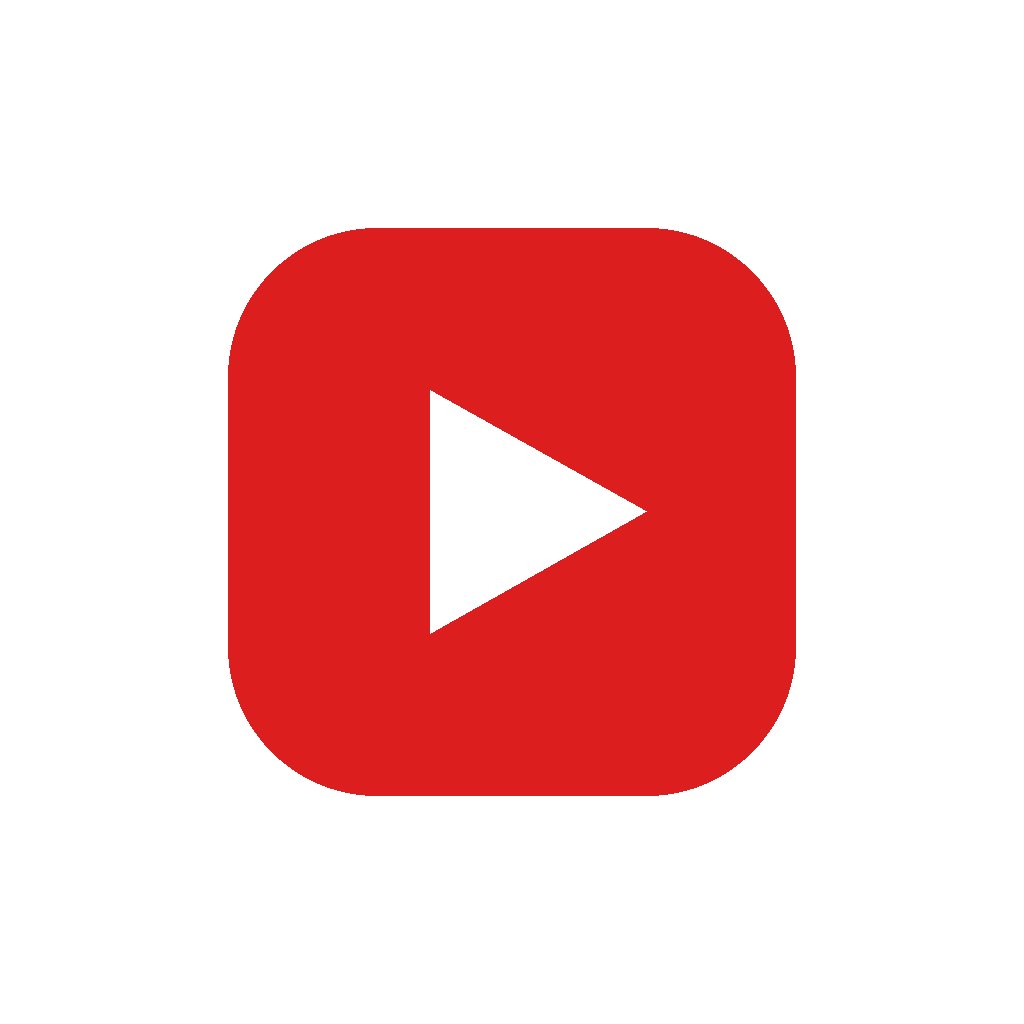
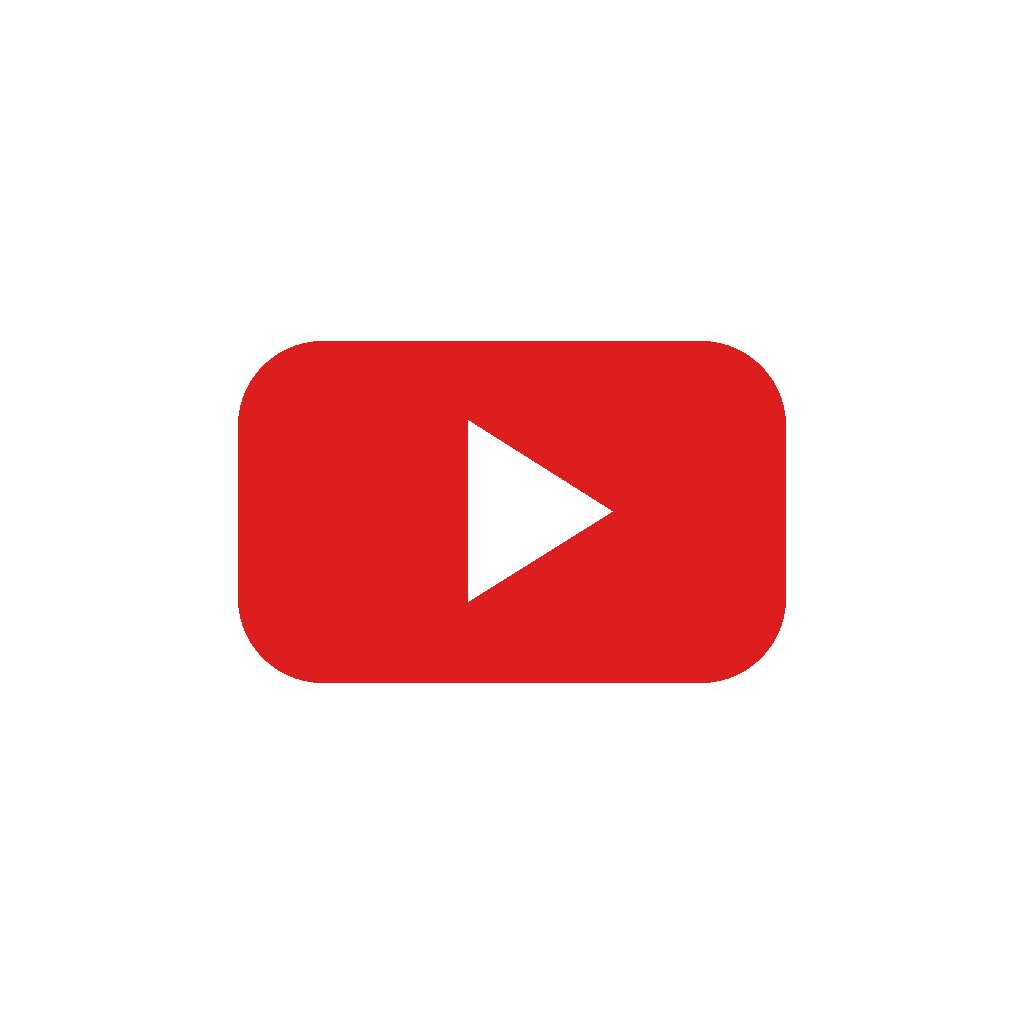
chore: 스토어 등록용 에셋 및 메타데이터 추가
- 앱 아이콘/어댑티브 아이콘/스플래시 이미지 새로 디자인 (빨간 플레이 버튼)
- app.json: 패키지명 com.hyunseok.ytplayer, 어댑티브 아이콘 배경 #141414
- store/: Play Store 제출용 에셋 (512px 아이콘, 피처 그래픽, 스토어 설명문, 개인정보처리방침)

Changed region(s): [[0.2188, 0.2188, 0.7812, 0.7812], [0.4062, 0.375, 0.5625, 0.625], [0.5625, 0.4688, 0.625, 0.5312]]

diff --git a/store/generate_assets.py b/store/generate_assets.py
@@ -1,0 +1,161 @@
+#!/usr/bin/env python3
+"""YT Player 스토어 에셋 일괄 생성 스크립트."""
+
+from PIL import Image, ImageDraw, ImageFont
+import os
+
+BASE_DIR = os.path.dirname(os.path.abspath(__file__))
+ASSETS_DIR = os.path.join(BASE_DIR, '..', 'assets')
+
+DARK_BG = (20, 20, 20)
+RED = (220, 30, 30)
+WHITE = (255, 255, 255)
+
+
+def get_font(size, korean=False):
+    paths = (
+        ['/System/Library/Fonts/AppleSDGothicNeo.ttc',
+         '/Library/Fonts/Arial Unicode.ttf']
+        if korean else
+        ['/System/Library/Fonts/Supplemental/Arial Bold.ttf',
+         '/System/Library/Fonts/HelveticaNeue.ttc',
+         '/System/Library/Fonts/Supplemental/Arial.ttf']
+    )
+    for p in paths:
+        try:
+            return ImageFont.truetype(p, size)
+        except (OSError, IOError):
+            continue
+    return ImageFont.load_default()
+
+
+def rounded_rect(draw, xy, r, fill):
+    x0, y0, x1, y1 = xy
+    draw.rectangle([x0 + r, y0, x1 - r, y1], fill=fill)
+    draw.rectangle([x0, y0 + r, x1, y1 - r], fill=fill)
+    draw.ellipse([x0, y0, x0 + 2*r, y0 + 2*r], fill=fill)
+    draw.ellipse([x1 - 2*r, y0, x1, y0 + 2*r], fill=fill)
+    draw.ellipse([x0, y1 - 2*r, x0 + 2*r, y1], fill=fill)
+    draw.ellipse([x1 - 2*r, y1 - 2*r, x1, y1], fill=fill)
+
+
+def play_triangle(draw, cx, cy, half_h, fill=WHITE):
+    ofs = half_h * 0.07
+    pts = [
+        (cx - half_h * 0.36 + ofs, cy - half_h * 0.62),
+        (cx - half_h * 0.36 + ofs, cy + half_h * 0.62),
+        (cx + half_h * 0.62 + ofs, cy),
+    ]
+    draw.polygon(pts, fill=fill)
+
+
+def draw_yt_badge(draw, x, y, size):
+    """유튜브 스타일 배지 (빨간 둥근 사각형 + 흰 삼각형)."""
+    hm = int(size * 0.13)
+    vm = int(size * 0.27)
+    r = int(size * 0.115)
+    rounded_rect(draw, (x + hm, y + vm, x + size - hm, y + size - vm), r, RED)
+    cx, cy = x + size // 2, y + size // 2
+    play_triangle(draw, cx, cy, (size - 2 * vm) * 0.43)
+
+
+# ── 아이콘 (앱용 1024, 스토어용 512) ────────────────────────────────────────
+
+def make_icon_rgb(size, bg=DARK_BG):
+    img = Image.new('RGB', (size, size), bg)
+    draw = ImageDraw.Draw(img)
+    draw_yt_badge(draw, 0, 0, size)
+    return img
+
+
+def make_adaptive_fg(size=1024):
+    """배경 투명, 안전 영역(72%) 안에 배지."""
+    img = Image.new('RGBA', (size, size), (0, 0, 0, 0))
+    draw = ImageDraw.Draw(img)
+    scale = 0.72
+    s = int(size * scale)
+    offset = (size - s) // 2
+    draw_yt_badge(draw, offset, offset, s)
+    return img
+
+
+def make_splash(size=1024):
+    """흰 배경, 중앙에 작은 배지."""
+    img = Image.new('RGBA', (size, size), (255, 255, 255, 255))
+    draw = ImageDraw.Draw(img)
+    badge_size = int(size * 0.4)
+    offset = (size - badge_size) // 2
+    draw_yt_badge(draw, offset, offset, badge_size)
+    return img
+
+
+# ── 피처 그래픽 1024×500 ────────────────────────────────────────────────────
+
+def make_feature_graphic():
+    W, H = 1024, 500
+    img = Image.new('RGB', (W, H), DARK_BG)
+    draw = ImageDraw.Draw(img)
+
+    # 오른쪽 절반 살짝 밝게
+    for x in range(W):
+        t = x / W
+        v = int(20 + 14 * t)
+        draw.line([(x, 0), (x, H)], fill=(v, v, v))
+
+    # 왼쪽 — 텍스트
+    title = get_font(72, korean=True)
+    sub = get_font(30, korean=True)
+    small = get_font(22, korean=True)
+
+    draw.text((72, 100), "YT Player", fill=WHITE, font=title)
+    draw.text((76, 192), "YouTube 플레이리스트 플레이어", fill=(170, 170, 170), font=sub)
+
+    bullets = [
+        "유튜브 영상 순차 자동 재생",
+        "플레이리스트 저장 및 관리",
+        "Premium 없이도 동작",
+    ]
+    y = 258
+    for b in bullets:
+        # 빨간 점 대신 빨간 작은 삼각형
+        draw.polygon([(76, y+7), (76, y+17), (84, y+12)], fill=RED)
+        draw.text((92, y), b, fill=(140, 140, 140), font=small)
+        y += 38
+
+    # 오른쪽 — 아이콘
+    badge = 260
+    bx = W - badge - 90
+    by = (H - badge) // 2
+    draw_yt_badge(draw, bx, by, badge)
+
+    return img
+
+
+# ── 메인 ────────────────────────────────────────────────────────────────────
+
+def main():
+    os.makedirs(BASE_DIR, exist_ok=True)
+
+    # 스토어 고해상도 아이콘 512×512 (알파 없음)
+    make_icon_rgb(512).save(os.path.join(BASE_DIR, 'icon_512.png'))
+    print("✓ store/icon_512.png       512×512  (Play Store 고해상도 아이콘)")
+
+    # 피처 그래픽 1024×500
+    make_feature_graphic().save(os.path.join(BASE_DIR, 'feature_graphic.png'))
+    print("✓ store/feature_graphic.png  1024×500  (Play Store 피처 그래픽)")
+
+    # assets/ 업데이트
+    make_icon_rgb(1024).save(os.path.join(ASSETS_DIR, 'icon.png'))
+    print("✓ assets/icon.png          1024×1024 (앱 아이콘)")
+
+    make_adaptive_fg().save(os.path.join(ASSETS_DIR, 'adaptive-icon.png'))
+    print("✓ assets/adaptive-icon.png 1024×1024 RGBA (어댑티브 아이콘 전경)")
+
+    make_splash().save(os.path.join(ASSETS_DIR, 'splash-icon.png'))
+    print("✓ assets/splash-icon.png   1024×1024 (스플래시)")
+
+    print("\n완료!")
+
+
+if __name__ == '__main__':
+    main()

diff --git a/store/listing.md b/store/listing.md
@@ -1,0 +1,143 @@
+# YT Player — Google Play 스토어 등록 정보
+
+---
+
+## 앱 이름
+YT Player
+
+---
+
+## 짧은 설명 (80자 이내)
+유튜브 플레이리스트를 만들고 순차 자동 재생. YouTube Premium 없이도 동작합니다.
+
+---
+
+## 전체 설명 (4000자 이내)
+
+유튜브 영상을 나만의 플레이리스트로 묶어 순서대로 자동 재생하세요.
+
+**주요 기능**
+
+• URL 붙여넣기만으로 영상 추가 — youtube.com, youtu.be, Shorts 모두 지원
+• 자동 순차 재생 — 한 영상이 끝나면 다음 영상으로 자동 이동
+• 이전 / 다음 버튼으로 빠른 탐색
+• 플레이리스트 순서 자유롭게 변경
+• 목록 자동 저장 — 앱을 껐다 켜도 그대로
+• 영상 제목과 썸네일 자동 표시
+
+**이런 분께 추천**
+
+- 같은 유튜브 영상을 반복해서 보시는 분
+- 특정 영상들을 정해진 순서로 이어 보고 싶은 분
+- 유튜브 앱의 복잡한 기능 없이 간단한 재생기가 필요한 분
+
+**지원 URL 형식**
+
+- youtube.com/watch?v=...
+- youtu.be/...
+- youtube.com/shorts/...
+- youtube.com/embed/...
+
+이 앱은 개인 사용 목적으로 만들어진 간단한 YouTube 플레이리스트 플레이어입니다.
+재생은 YouTube의 공식 플레이어를 통해 이루어지며, 별도의 계정 로그인이 필요 없습니다.
+
+---
+
+## 카테고리
+동영상 플레이어 / 편집기
+
+## 콘텐츠 등급
+전체 이용가
+
+## 태그 (키워드)
+유튜브, 플레이리스트, 동영상, 자동재생, YouTube, playlist, video player
+
+---
+
+## 스크린샷 안내
+
+Google Play는 폰 스크린샷 최소 2장이 필요합니다.
+권장 해상도: 1080×1920 (9:16 세로)
+
+촬영 화면 제안:
+1. 플레이리스트에 영상이 3~4개 추가된 상태 + 플레이어 재생 중
+2. URL 추가 모달이 열린 상태
+
+---
+
+## 개인정보처리방침 URL
+
+https://hyunseokyu1-netizen.github.io/yt-player-privacy/
+
+---
+---
+
+# YT Player — Google Play Store Listing (English)
+
+---
+
+## App Name
+YT Player
+
+---
+
+## Short Description (max 80 chars)
+Build your YouTube playlist and auto-play videos in sequence. No YouTube Premium needed.
+
+---
+
+## Full Description
+
+Build your own YouTube playlist and watch videos one after another — automatically.
+
+**Key Features**
+
+• Add videos by pasting any YouTube URL — supports youtube.com, youtu.be, and Shorts
+• Auto-play next — when one video ends, the next one starts automatically
+• Previous / Next buttons for quick navigation
+• Reorder your playlist freely
+• Playlist saved automatically — picks up right where you left off
+• Video title and thumbnail loaded automatically
+
+**Perfect for**
+
+- Watching the same set of YouTube videos repeatedly
+- Playing specific videos in a fixed order without distractions
+- Anyone who wants a simple, no-frills YouTube player
+
+**Supported URL Formats**
+
+- youtube.com/watch?v=...
+- youtu.be/...
+- youtube.com/shorts/...
+- youtube.com/embed/...
+
+This is a lightweight personal YouTube playlist player. Playback is handled entirely through YouTube's official player — no account login required.
+
+---
+
+## Category
+Video Players & Editors
+
+## Content Rating
+Everyone
+
+## Tags / Keywords
+YouTube, playlist, video player, auto-play, queue, youtube player
+
+---
+
+## Screenshot Guide
+
+Google Play requires at least 2 phone screenshots.
+Recommended resolution: 1080×1920 (9:16 portrait)
+
+Suggested screens:
+1. Playlist with 3–4 videos added, player actively playing
+2. Add URL modal open
+
+---
+
+## Privacy Policy URL
+
+https://hyunseokyu1-netizen.github.io/yt-player-privacy/

diff --git a/store/privacy_policy.md b/store/privacy_policy.md
@@ -1,0 +1,63 @@
+# 개인정보처리방침 / Privacy Policy
+
+**YT Player**
+최종 업데이트: 2026년 5월
+
+---
+
+## 수집하는 정보
+
+YT Player는 사용자의 개인정보를 수집하지 않습니다.
+
+앱이 기기에 저장하는 정보:
+- 사용자가 직접 추가한 YouTube 영상 URL 및 제목, 썸네일 (기기 로컬 저장소에만 저장)
+
+이 데이터는 외부 서버로 전송되지 않으며, 앱 삭제 시 함께 삭제됩니다.
+
+---
+
+## 네트워크 통신
+
+앱은 다음 목적으로만 인터넷을 사용합니다:
+
+1. **영상 정보 조회**: URL 추가 시 YouTube oEmbed API (youtube.com/oembed)를 호출하여 영상 제목과 썸네일을 가져옵니다.
+2. **영상 재생**: YouTube 공식 플레이어(WebView)를 통해 영상을 스트리밍합니다.
+
+위 통신은 모두 YouTube/Google의 서버와 직접 이루어지며, 개발자의 별도 서버를 거치지 않습니다.
+
+---
+
+## 제3자 서비스
+
+이 앱은 YouTube(Google LLC)의 서비스를 사용하여 영상을 재생합니다.
+YouTube의 개인정보처리방침: https://policies.google.com/privacy
+
+---
+
+## 어린이 개인정보
+
+이 앱은 13세 미만 어린이를 대상으로 하지 않으며, 어린이의 개인정보를 의도적으로 수집하지 않습니다.
+
+---
+
+## 문의
+
+개인정보처리방침 관련 문의: backdev.tip@gmail.com
+
+---
+
+## Privacy Policy (English)
+
+**YT Player** does not collect any personal information from users.
+
+The app stores only YouTube video URLs, titles, and thumbnails that the user explicitly adds — solely on the device's local storage. This data is never transmitted to any external server and is deleted when the app is uninstalled.
+
+The app accesses the internet only to:
+1. Fetch video info via YouTube's oEmbed API when a URL is added
+2. Stream videos through the official YouTube player (WebView)
+
+All network communication occurs directly with YouTube/Google servers. No developer-operated server is involved.
+
+This app uses YouTube (Google LLC) services. Google's Privacy Policy applies to that usage: https://policies.google.com/privacy
+
+Contact: backdev.tip@gmail.com
